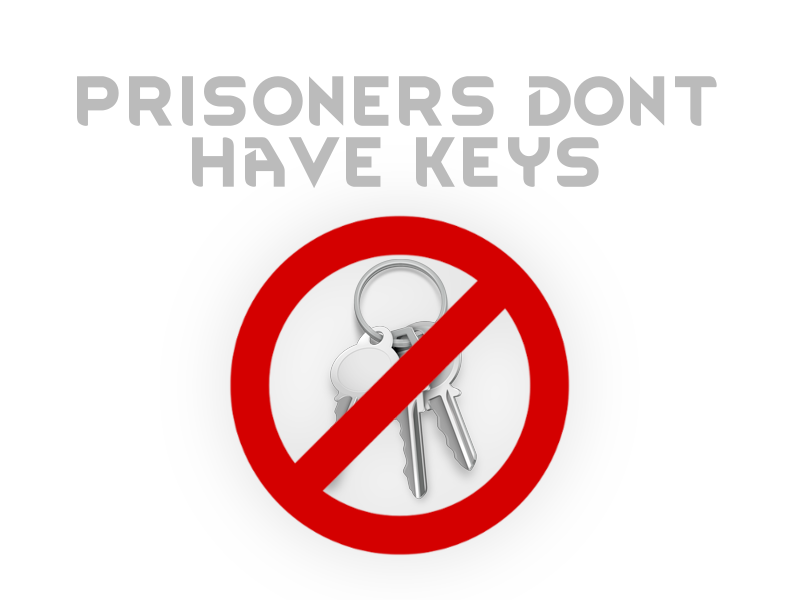
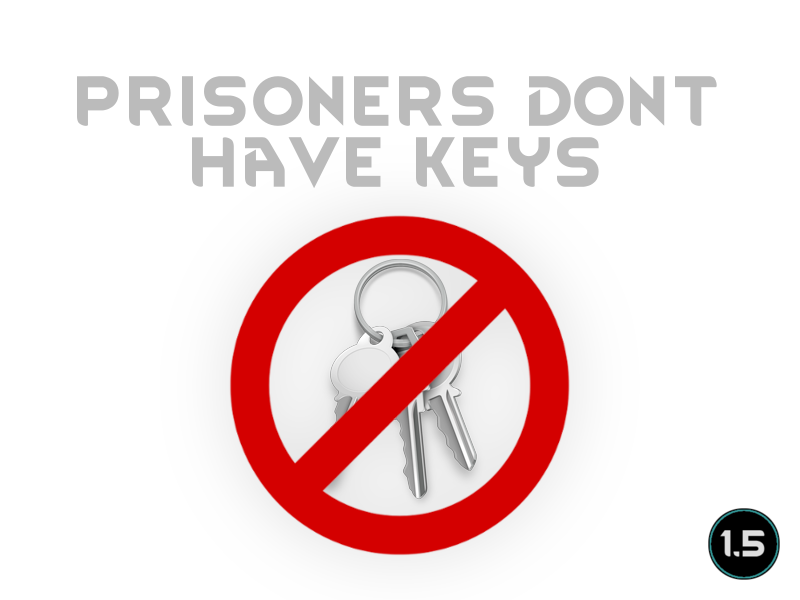
Updated for 1.5

Changed region(s): [[0.875, 0.84, 1.0, 0.99]]

diff --git a/Source/DoorsExpandedPatch/DoorsExpandedPatch.cs b/Source/DoorsExpandedPatch/DoorsExpandedPatch.cs
@@ -9,8 +9,8 @@ public class DoorsExpandedPatch
 {
     static DoorsExpandedPatch()
     {
-        var harmony = new Harmony("Mlie.PrisonersDontHaveKeys.DoorsExpandedPatch");
-        var doorsExpandedOpenMethod = typeof(Building_DoorExpanded).GetMethod("PawnCanOpen");
+        var doorsExpandedOpenMethod =
+            typeof(Building_DoorExpanded).GetMethod(nameof(Building_DoorExpanded.PawnCanOpen));
 
         if (doorsExpandedOpenMethod == null)
         {
@@ -18,14 +18,15 @@ public class DoorsExpandedPatch
             return;
         }
 
-        var postfix = typeof(Building_Door_PawnCanOpen).GetMethod("Postfix");
+        var postfix = typeof(Building_Door_PawnCanOpen).GetMethod(nameof(Building_Door_PawnCanOpen.Postfix));
         if (postfix == null)
         {
             PrisonersDontHaveKeys.LogMessage("Doors Expanded is loaded but failed to fetch the postfix");
             return;
         }
 
-        harmony.Patch(doorsExpandedOpenMethod, null, new HarmonyMethod(postfix));
+        new Harmony("Mlie.PrisonersDontHaveKeys.DoorsExpandedPatch").Patch(doorsExpandedOpenMethod, null,
+            new HarmonyMethod(postfix));
         PrisonersDontHaveKeys.LogMessage("Doors Expanded is loaded, added patch for it");
     }
 }

diff --git a/Source/PrisonersDontHaveKeys/PrisonersDontHaveKeysMod.cs b/Source/PrisonersDontHaveKeys/PrisonersDontHaveKeysMod.cs
@@ -30,8 +30,7 @@ internal class PrisonersDontHaveKeysMod : Mod
         instance = this;
 
         currentVersion =
-            VersionFromManifest.GetVersionFromModMetaData(
-                ModLister.GetActiveModWithIdentifier("Mlie.PrisonersDontHaveKeys"));
+            VersionFromManifest.GetVersionFromModMetaData(content.ModMetaData);
     }
 
     /// <summary>

diff --git a/Source/PrisonersDontHaveKeys/PrisonersDontHaveKeys.cs b/Source/PrisonersDontHaveKeys/PrisonersDontHaveKeys.cs
@@ -9,8 +9,7 @@ public class PrisonersDontHaveKeys
 {
     static PrisonersDontHaveKeys()
     {
-        var harmony = new Harmony("Mlie.PrisonersDontHaveKeys");
-        harmony.PatchAll(Assembly.GetExecutingAssembly());
+        new Harmony("Mlie.PrisonersDontHaveKeys").PatchAll(Assembly.GetExecutingAssembly());
     }
 
 

diff --git a/Source/PrisonersDontHaveKeys/Building_Door_PawnCanOpen.cs b/Source/PrisonersDontHaveKeys/Building_Door_PawnCanOpen.cs
@@ -5,7 +5,7 @@ using Verse;
 
 namespace PrisonersDontHaveKeys;
 
-[HarmonyPatch(typeof(Building_Door), "PawnCanOpen")]
+[HarmonyPatch(typeof(Building_Door), nameof(Building_Door.PawnCanOpen))]
 public class Building_Door_PawnCanOpen
 {
     [HarmonyPostfix]

diff --git a/README.md b/README.md
@@ -1,6 +1,6 @@
 # PrisonersDontHaveKeys
 
-![Image](https://i.imgur.com/buuPQel.png)
+![Image](https://i.imgur.com/iCj5o7O.png)
 
 
 I found it odd that prisoners could open doors when escaping when fleeing raiders cannot. 
@@ -12,24 +12,26 @@ Since 1.3 added slaves the mod can be applied to rebelling slaves as well by ena
 
 - Added support for https://steamcommunity.com/sharedfiles/filedetails/?id=1316188771]Doors Expanded
 	
-![Image](https://i.imgur.com/O0IIlYj.png)
+![Image](https://i.imgur.com/Ds0rBAD.png)
 
 Since modding is just a hobby for me I expect no donations to keep modding. If you still want to show your support you can gift me anything from my https://store.steampowered.com/wishlist/id/Mlie]Wishlist or buy me a cup of tea.
 
-https://ko-fi.com/G2G55DDYD]![Image](https://i.imgur.com/Utx6OIH.png)
+https://ko-fi.com/G2G55DDYD]![Image](https://i.imgur.com/VWG0yff.png)
 
 
-![Image](https://i.imgur.com/PwoNOj4.png)
+![Image](https://i.imgur.com/5xwDG6H.png)
 
 
 
 -  See if the the error persists if you just have this mod and its requirements active.
 -  If not, try adding your other mods until it happens again.
--  Post your error-log using https://steamcommunity.com/workshop/filedetails/?id=818773962]HugsLib and command Ctrl+F12
+-  Post your error-log using https://steamcommunity.com/workshop/filedetails/?id=818773962]HugsLib or the standalone https://steamcommunity.com/sharedfiles/filedetails/?id=2873415404]Uploader and command Ctrl+F12
 -  For best support, please use the Discord-channel for error-reporting.
 -  Do not report errors by making a discussion-thread, I get no notification of that.
 -  If you have the solution for a problem, please post it to the GitHub repository.
+-  Use https://github.com/RimSort/RimSort/releases/latest]RimSort to sort your mods
 
 
 
+https://steamcommunity.com/sharedfiles/filedetails/changelog/2595360307]![Image](https://img.shields.io/github/v/release/emipa606/PrisonersDontHaveKeys?label=latest%20version&style=plastic&labelColor=0070cd&color=white)
 
